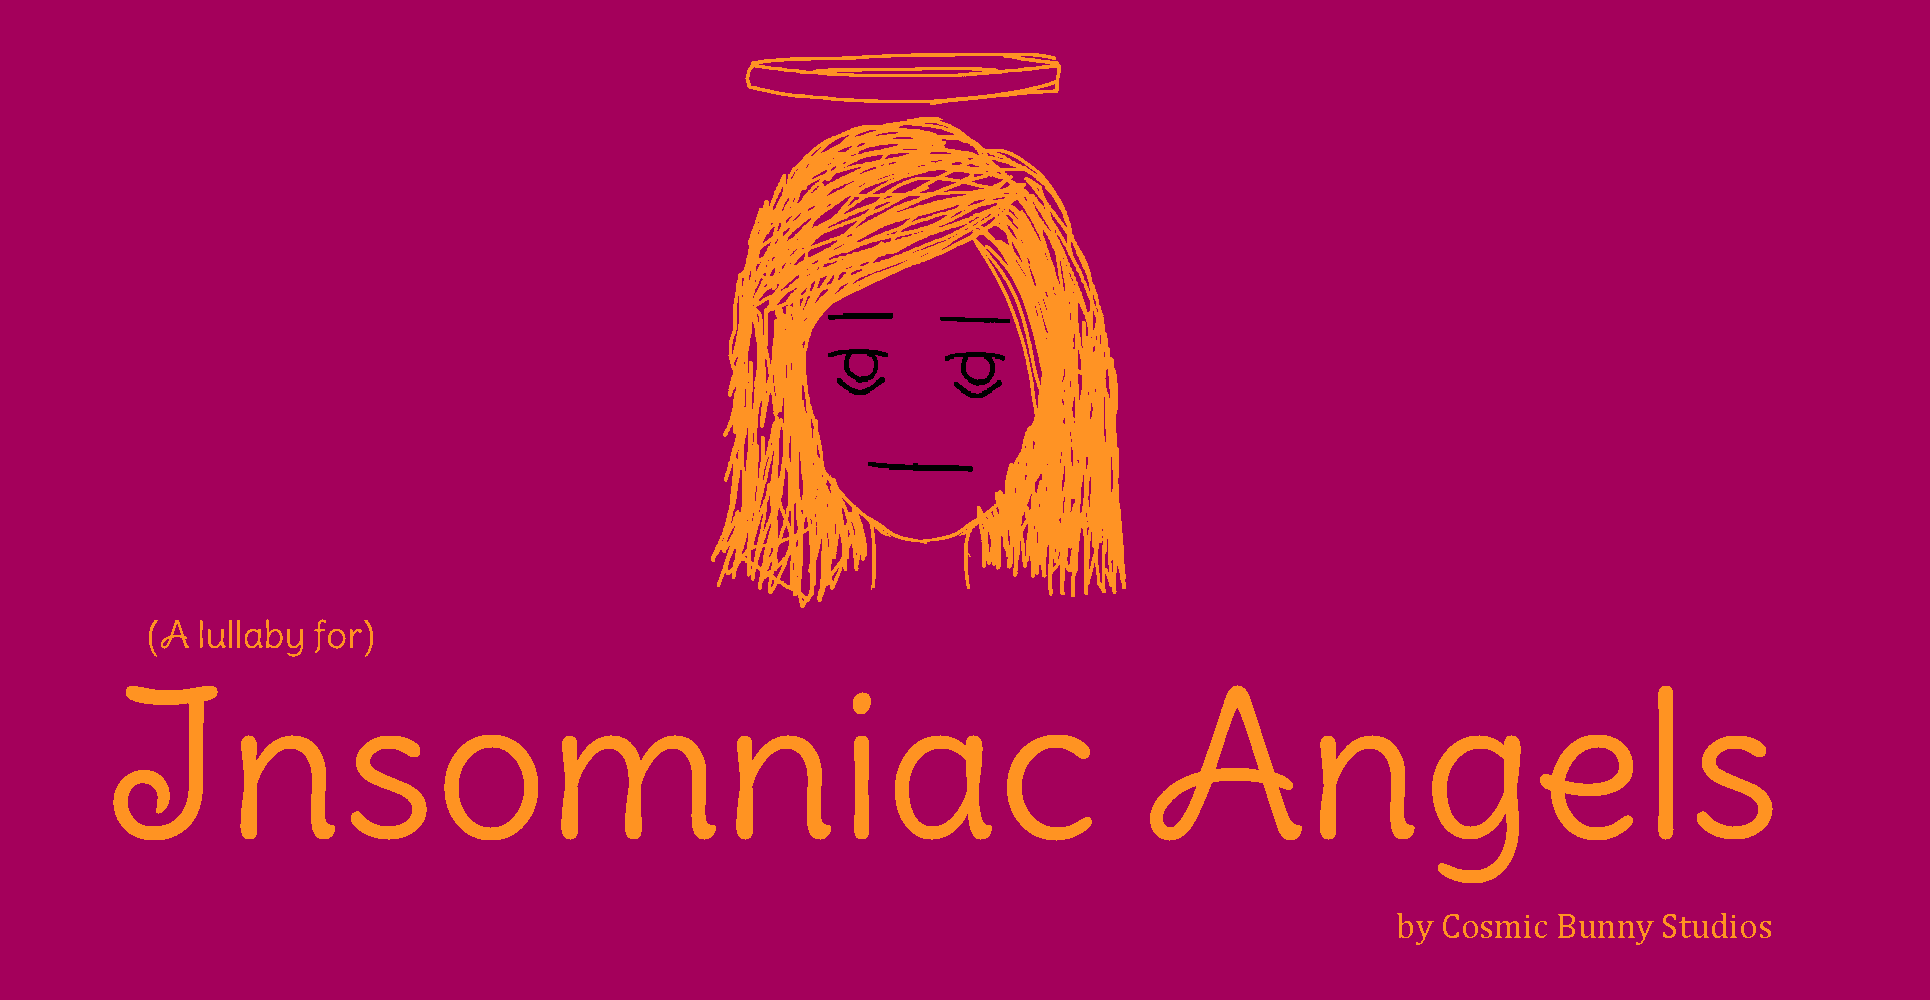
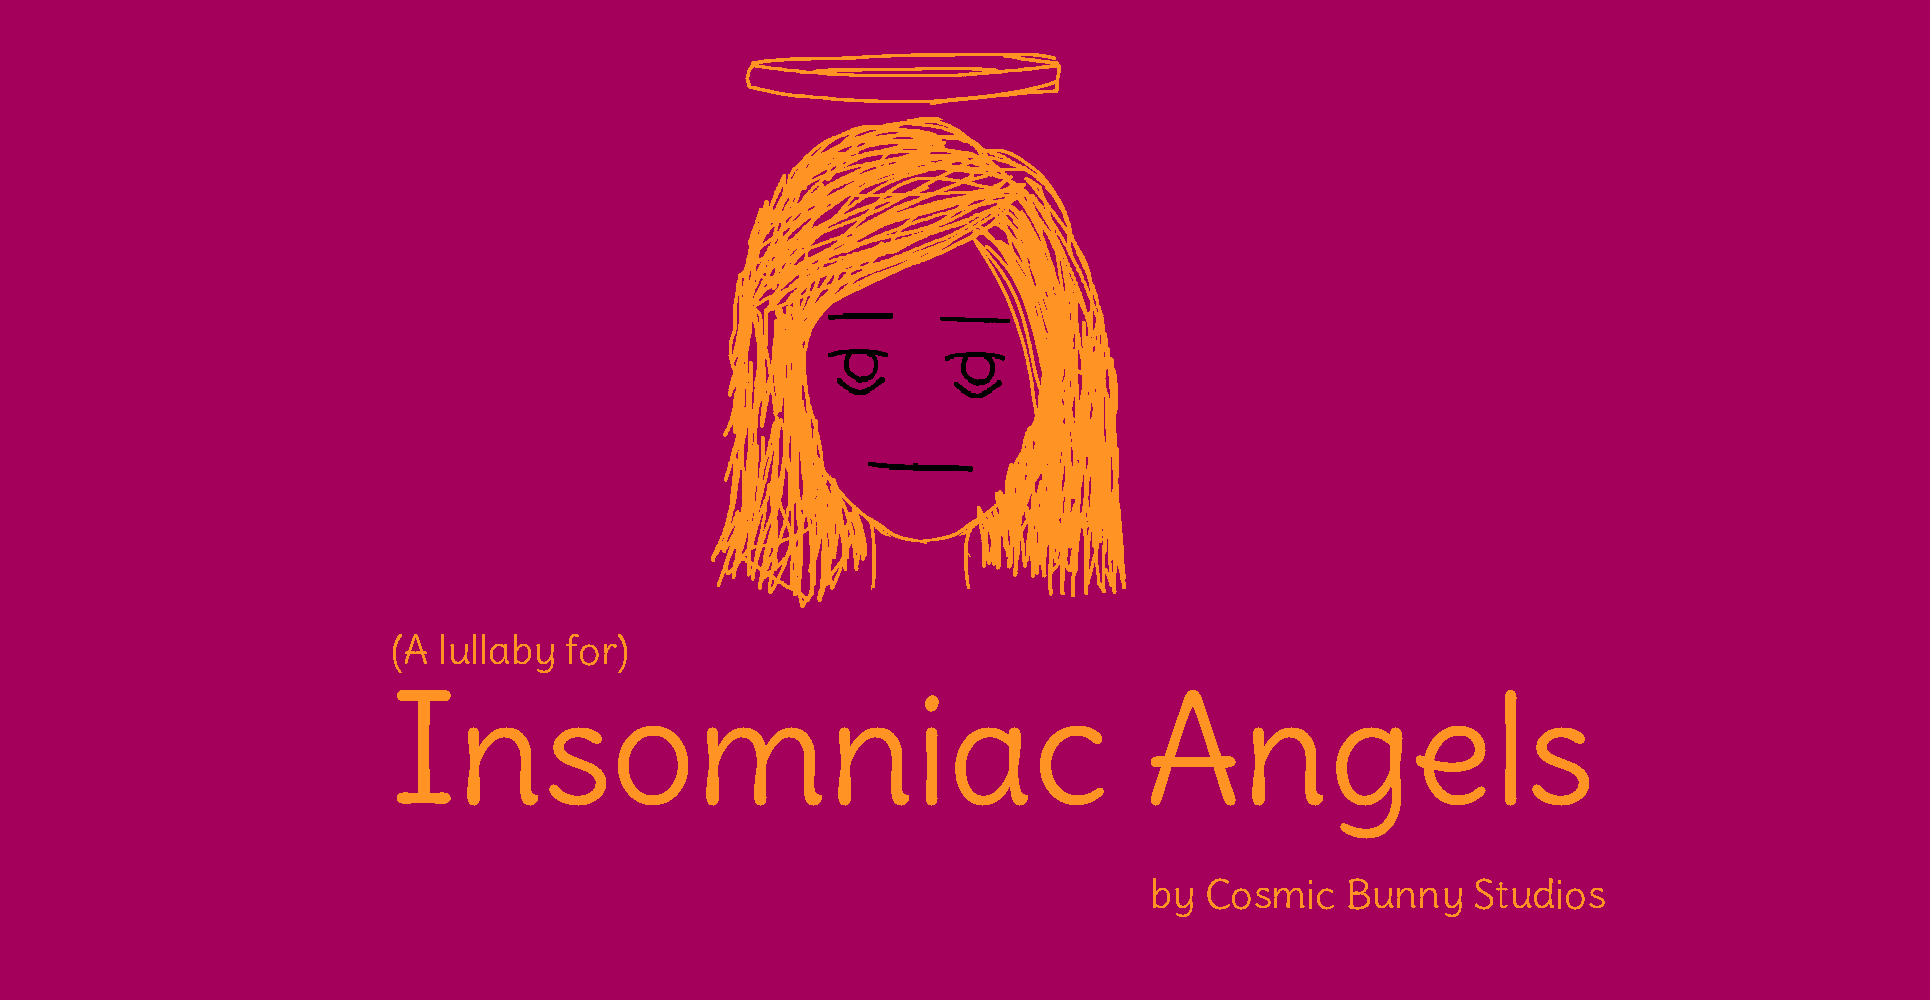
About page design changes.

Changed region(s): [[0.0622, 0.62, 0.9326, 0.93], [0.0622, 0.62, 0.2176, 0.651], [0.5907, 0.899, 0.6218, 0.93]]

diff --git a/src/pages/About.js b/src/pages/About.js
@@ -1,31 +1,41 @@
 import earth1 from '../assets/earth1.jpg'
+import earth2 from '../assets/earth2.jpg'
+
 
 
 const About = () => {
   return (
     <div className='about'>
-      
-      <div className='card-container'>
 
+      <div className='card-container'>
+      <span style={{ fontSize: '2vw', textAlign: 'center', color: ' #ff9324' }}> A Godless World </span>
         <div className='card'>
           <img src={earth1} alt='banner' />
 
           <div className="textbox">
-          <span style={{ fontSize: '2vw' }}>Hi</span>
+            
             <p>
-            My name is Yoshikage Kira. I'm 33 years old. My house is in the northeast section of Morioh, where all the villas are, and I am not married. I work as an employee for the Kame Yu department stores, and I get home every day by 8 PM at the latest. I don't smoke, but I occasionally drink. I'm in bed by 11 PM, and make sure I get eight hours of sleep, no matter what. After having a glass of warm milk and doing about twenty minutes of stretches before going to bed, I usually have no problems sleeping until morning. Just like a baby, I wake up without any fatigue or stress in the morning. I was told there were no issues at my last check-up. I'm trying to explain that I'm a person who wishes to live a very quiet life. I take care not to trouble myself with any enemies, like winning and losing, that would cause me to lose sleep at night. That is how I deal with society, and I know that is what brings me happiness. Although, if I were to fight I wouldn't lose to anyone.
+              <span style={{ fontSize: '0.9vw', textAlign: 'left' }}>
+              Welcome to Yinneva, where the people are tired, the devils are in excess, and the Gods are quite dead. Thankfully, 
+              some angels still exist and make genuine attempts at preserving the human race. God bless Yinneva.
+              </span>
             </p>
 
           </div>
         </div>
+        <span style={{ fontSize: '2vw', textAlign: 'center', color: ' #ff9324' }}> New Yinneva City </span>
 
         <div className='card'>
-          <img src={earth1} alt='banner' />
+          <img src={earth2} alt='banner' />
 
           <div className="textbox">
-            <h1>Lorem Ipsum</h1>
+           
             <p>
-            My name is Yoshikage Kira. I'm 33 years old. My house is in the northeast section of Morioh, where all the villas are, and I am not married. I work as an employee for the Kame Yu department stores, and I get home every day by 8 PM at the latest. I don't smoke, but I occasionally drink. I'm in bed by 11 PM, and make sure I get eight hours of sleep, no matter what. After having a glass of warm milk and doing about twenty minutes of stretches before going to bed, I usually have no problems sleeping until morning. Just like a baby, I wake up without any fatigue or stress in the morning. I was told there were no issues at my last check-up. I'm trying to explain that I'm a person who wishes to live a very quiet life. I take care not to trouble myself with any enemies, like winning and losing, that would cause me to lose sleep at night. That is how I deal with society, and I know that is what brings me happiness. Although, if I were to fight I wouldn't lose to anyone.
+            <span style={{ fontSize: '0.9vw', textAlign: 'left' }}>
+             Welcome to New Yinneva City, the flashy and expensive city of dreams. Every ambitious young adult wishes they 
+             lived here because it is objectively the only way they can ever find their dreams come true. No crisis ever could
+             make anyone want to leave this place.
+            </span>
             </p>
 
           </div>

diff --git a/src/App.css b/src/App.css
@@ -1,5 +1,13 @@
+
+@font-face {
+  font-family: 'Delius';
+  src: url('assets/Delius-Regular.ttf') format('truetype');
+}
+
+
 body{
   background-color: #a4005b;
+  font-family: 'Delius';
 }
 
 .App{
@@ -56,6 +64,7 @@ body{
   flex-direction: column;
   font-size: 1vw;
   align-items: center;
+  
 }
 
 .card img{
@@ -70,7 +79,8 @@ body{
   flex-direction: column;
   overflow-y: scroll;
   height: 45vw;
-  
+  padding-left: 15vw;
+  padding-right: 15vw;
 }
 
 
@@ -89,7 +99,9 @@ body{
 
 .textbox {
   color: #ff9324;
-  text-align: center;
+  padding-left: 5vw;
+  padding-right: 5vw;
+  line-height: 2;
 }
 
 .top-line,
